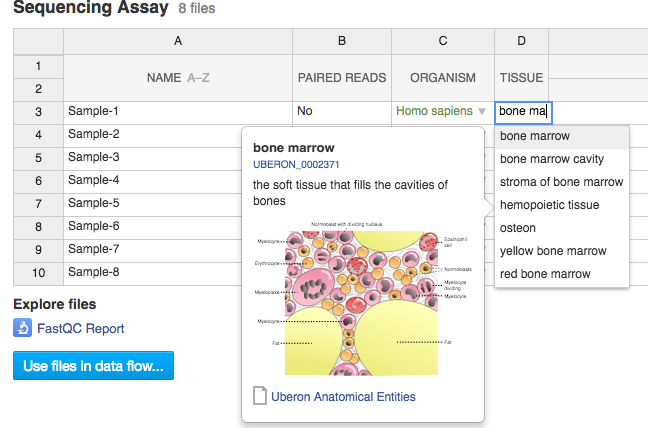
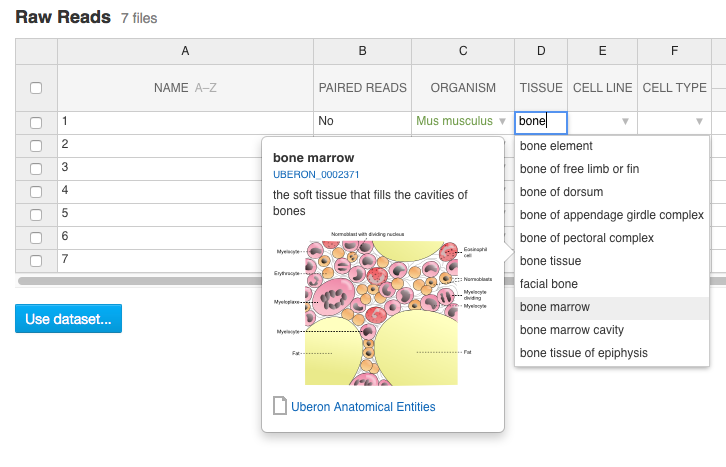
update metainfo editor section

diff --git a/source/guide/using-genestack-public-data_include.rst b/source/guide/using-genestack-public-data_include.rst
@@ -82,9 +82,9 @@ want to use to create names.
 .. image:: images/naming-scheme.png
 
 Once you are happy with the metadata for your files, you can proceed to analyse
-them by clicking the button **Use all N files...**. You can use the suggested
+them by clicking the button **Use dataset**. You can use the suggested
 visualize applications to explore your files, like "FastQC Report" to check the
-quality of raw sequencing assays, use on of the existing public data flows or
+quality of raw reads, use on of the existing public data flows or
 build your own pipeline by adding applications step-by-step. Moreover, you
 could share the files with your collaborators and add them to a folder of your
 choice.
